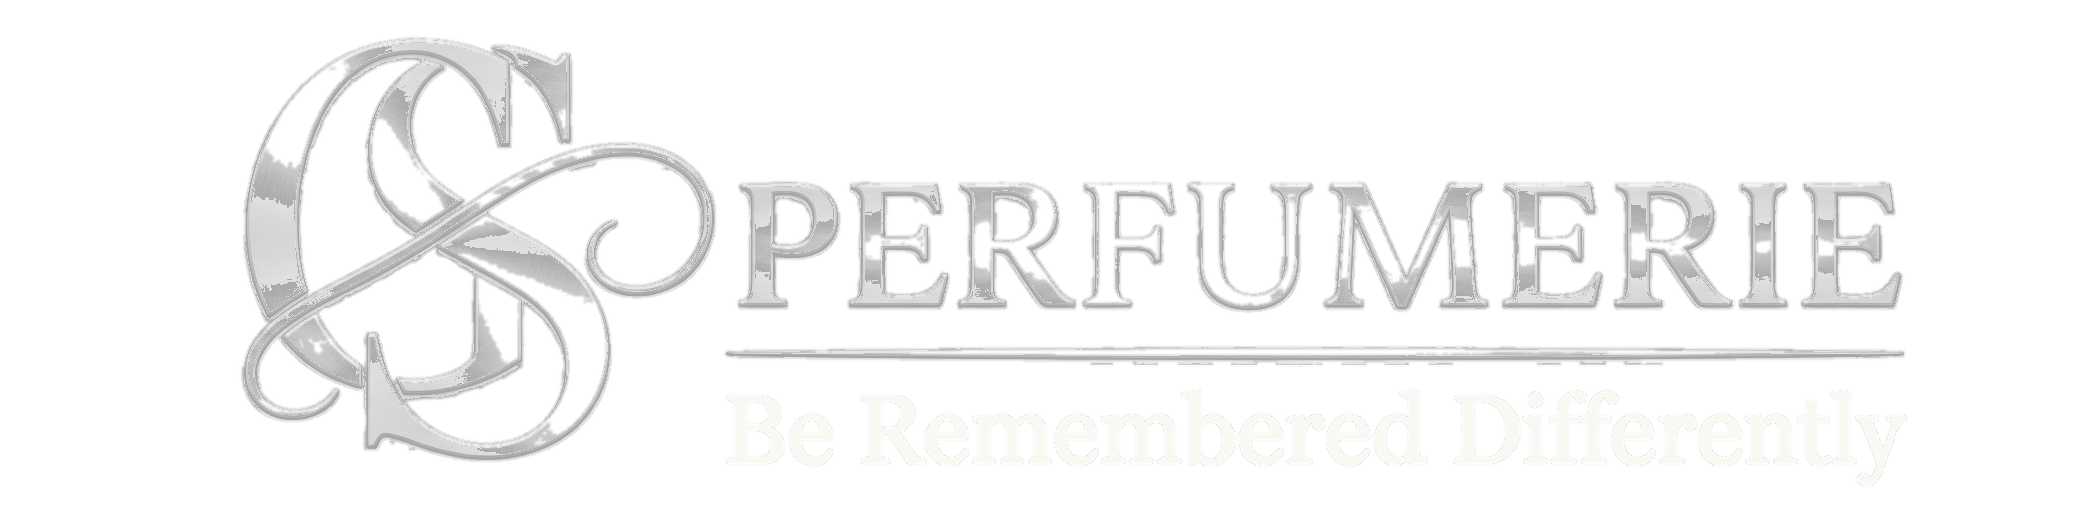
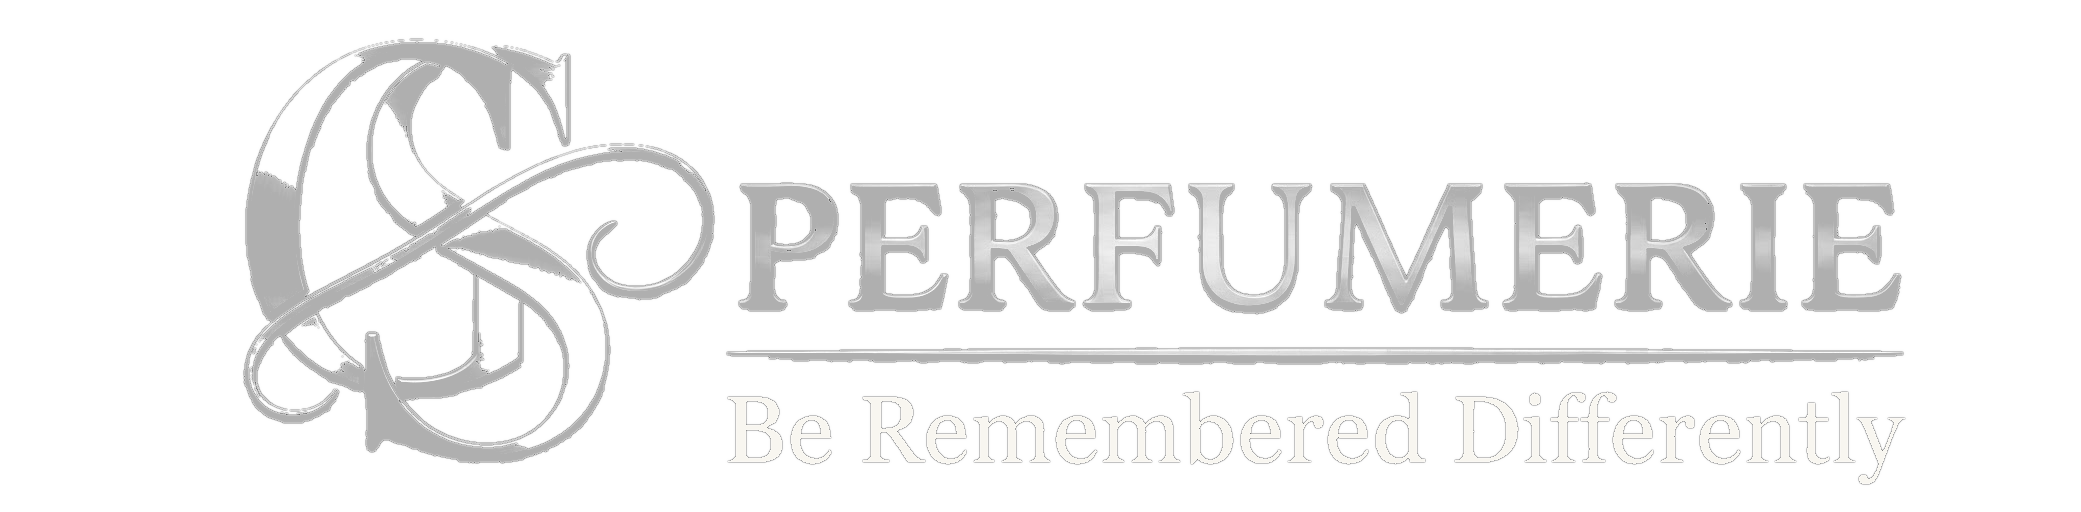
Completely eliminate hollow cutouts: apply solid platinum-silver fill to all letters and monogram, bust CDN cache with v3

diff --git a/src/components/Hero.tsx b/src/components/Hero.tsx
@@ -2,7 +2,7 @@ import React from 'react';
 import { useStore } from '../context/StoreContext';
 import { Sparkles, ArrowRight, ShieldCheck, Compass, Droplet } from 'lucide-react';
 import heroPerfumeImg from '../assets/images/hero_luxury_perfume_1791027749457.jpg';
-import shahzeinLogoImg from '../assets/images/shahzein_main_logo_transparent.png';
+import shahzeinLogoImg from '../assets/images/shahzein_luxury_emblem_v3.png';
 
 export const Hero: React.FC = () => {
   const { setIsFinderOpen, fragrances, setSelectedFragrance } = useStore();

diff --git a/src/components/ShahzeinBrandLogo.tsx b/src/components/ShahzeinBrandLogo.tsx
@@ -1,5 +1,5 @@
 import React from 'react';
-import shahzeinLogoImg from '../assets/images/shahzein_main_logo_transparent.png';
+import shahzeinLogoImg from '../assets/images/shahzein_luxury_emblem_v3.png';
 
 interface ShahzeinBrandLogoProps {
   size?: 'sm' | 'md' | 'lg';
